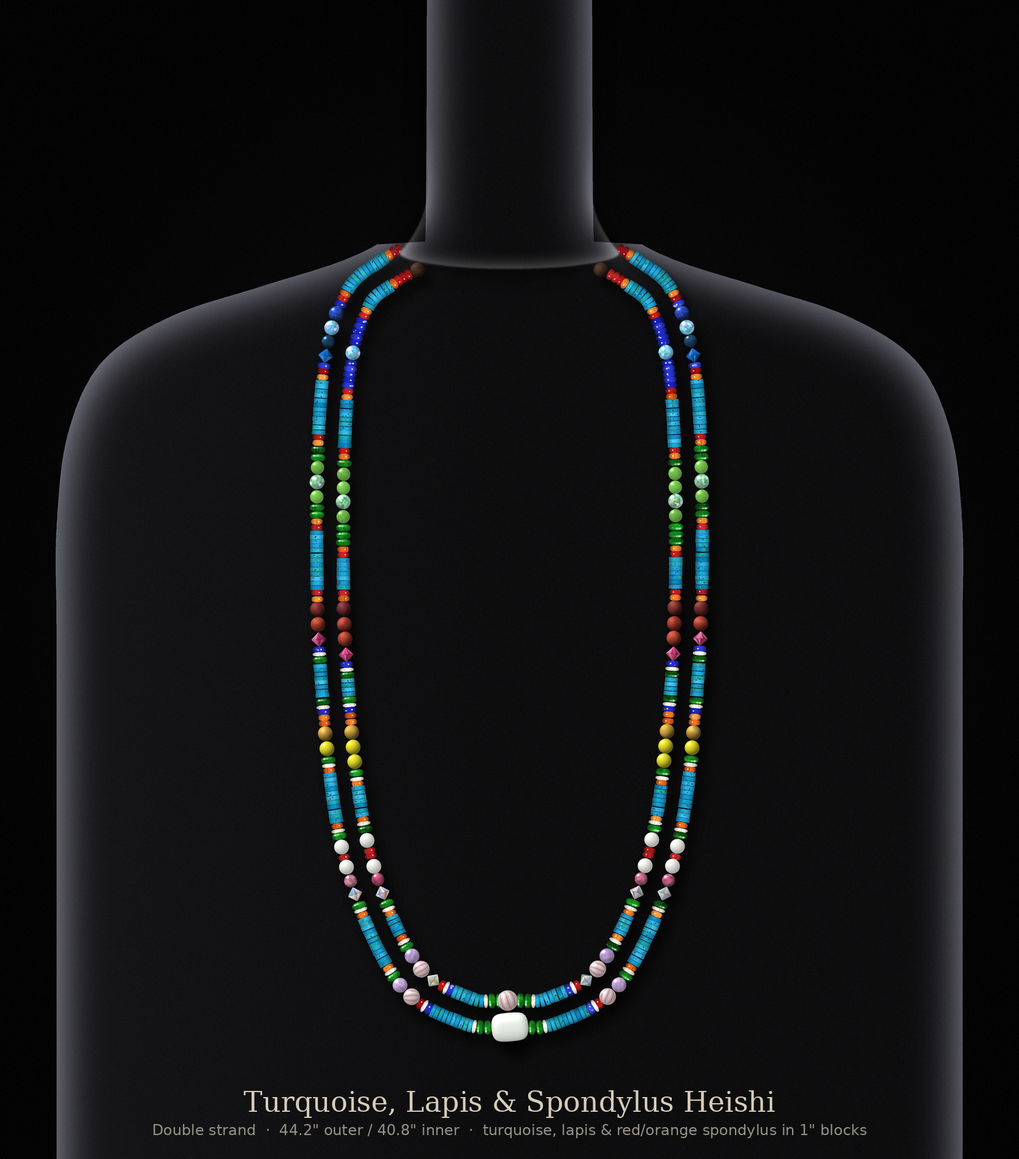
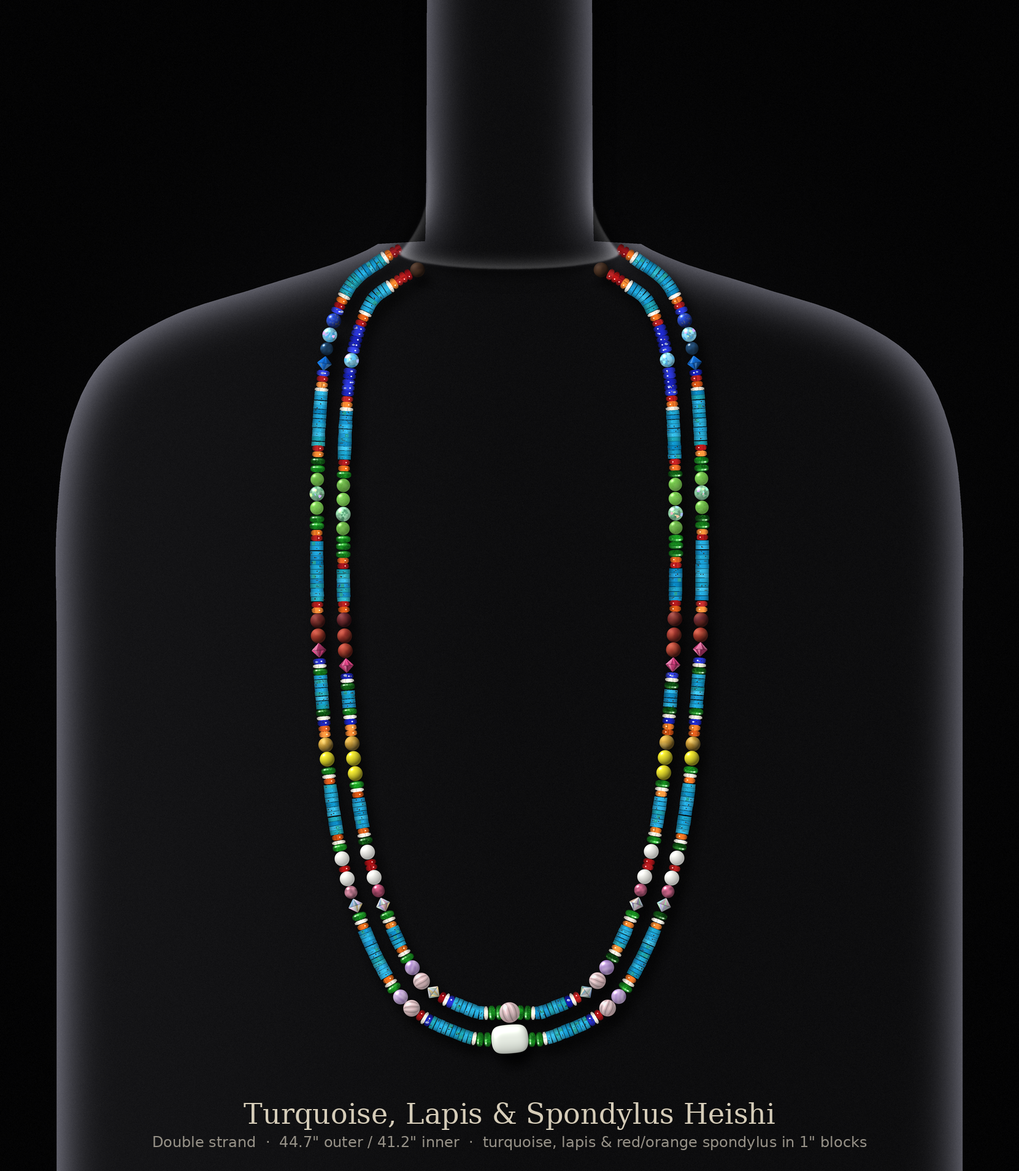
Version 5: white conch between orange and turquoise in the upper part; 44.7"
Claude-Session: https://claude.ai/code/session_014be1vF4Rdf8sv9Si75Gudv

diff --git a/necklace/render_necklace.py b/necklace/render_necklace.py
@@ -21,7 +21,8 @@ V5_EXT4 = 7.0 if V5 else 0.0             # v5: a pink tourmaline moves from the 
 V5_EXT5 = 5 * 2.0 if V5 else 0.0         # v5: white conch at the 5 lower orange/green borders per strand side (+10 mm per side)
 V5_EXT6 = -3.0 - 1.0 if V5 else 0.0      # (and -1 mm: lapis replaces the 4 mm diopside by the centre-side conch)            # v5: red above the white-section AB bicones removed (-3 mm per side)
 V5_EXT7 = 2.0 if V5 else 0.0             # v5: white conch beside the centre diopside (+2 mm per side)
-C_OUT, GAP, BEAD_D = 42 * INCH + 2 * (V5_EXT + V5_EXT2 + V5_EXT3 + V5_EXT4 + V5_EXT5 + V5_EXT6 + V5_EXT7), (11.2 if EXTRAS else (14.0 if V2 else 10.0)), 7.0   # v2: room for 18 mm naga conch
+V5_EXT8 = 3 * 2.0 if V5 else 0.0         # v5: white conch outside the oranges that touch turquoise, top red + blue bands (+6 mm per side)
+C_OUT, GAP, BEAD_D = 42 * INCH + 2 * (V5_EXT + V5_EXT2 + V5_EXT3 + V5_EXT4 + V5_EXT5 + V5_EXT6 + V5_EXT7 + V5_EXT8), (11.2 if EXTRAS else (14.0 if V2 else 10.0)), 7.0   # v2: room for 18 mm naga conch
 C_IN = C_OUT - 2 * math.pi * GAP    # inner strand: 8 mm smaller radius -> ~38"
 NSEG, BPS = 42, 16                  # 1 inch blocks, ~16 heishi (1.6 mm) per block
 
@@ -1099,6 +1100,10 @@ if V4:
             seq = list(seq); assert seq[-4:] == ["yellow", "lapisH", "red", "diop"], seq
             seq[-3:] = ["diop", "orange"]; return seq   # lapis under the green removed; orange (was red) touches the green
         BANDS[3] = tuple(_diop_up(b) for b in BANDS[3])
+        # upper part: white conch where an orange meets the turquoise (top red band bottom, blue band top and bottom)
+        assert all(b[-1] == "orange" for b in BANDS[2]) and all(b[0] == b[-1] == "orange" for b in BANDS[4])
+        BANDS[2] = tuple(list(b) + ["conch"] for b in BANDS[2])
+        BANDS[4] = tuple(["conch"] + list(b) + ["conch"] for b in BANDS[4])
         BANDS[3] = tuple(list(b[:-1]) + ["conch", "orange"] for b in BANDS[3])   # white conch between the green and orange under the yellow
         # below the yellow (rose band top and bottom, bottom band top): green against the round beads,
         # lapis -> orange spiny oyster against the turquoise
@@ -1214,13 +1219,13 @@ if V4:
             gaps = [f / 2] + [f] * len(STN)
             if V5:
                 # align band centres by height: use common fractions computed from the widest of each band pair
-                Hin = (s_in[-1] + HIDDEN_IN) / 2 - SZ[CENTRE[1]] / 2 - V5_EXT - V5_EXT2 - V5_EXT3 - V5_EXT4 - V5_EXT5 - V5_EXT6 - V5_EXT7   # layout at the old length
+                Hin = (s_in[-1] + HIDDEN_IN) / 2 - SZ[CENTRE[1]] / 2 - V5_EXT - V5_EXT2 - V5_EXT3 - V5_EXT4 - V5_EXT5 - V5_EXT6 - V5_EXT7 - V5_EXT8   # layout at the old length
                 Wmax = [max(sum(SZ[k] for k in b[0]), sum(SZ[k] for k in b[1])) for b in BANDS]
                 gapc = (Hin - sum(Wmax)) / (len(BANDS) + 0.5)
                 cen, acc = [], gapc / 2
                 for w in Wmax:
                     cen.append((acc + w / 2) / Hin); acc += w + gapc
-                Hs = H2 - cz - V5_EXT - V5_EXT2 - V5_EXT3 - V5_EXT4 - V5_EXT5 - V5_EXT6 - V5_EXT7                # layout at the old length; the extension goes in below the blue band
+                Hs = H2 - cz - V5_EXT - V5_EXT2 - V5_EXT3 - V5_EXT4 - V5_EXT5 - V5_EXT6 - V5_EXT7 - V5_EXT8                # layout at the old length; the extension goes in below the blue band
                 # turquoise gaps come from the unframed layout; the extra frame width is taken from the top section
                 Wmax0 = [max(sum(SZ[k] for k in b[0]), sum(SZ[k] for k in b[1])) for b in BANDS_PREV]
                 gapc0 = (Hin - sum(Wmax0)) / (len(BANDS_PREV) + 0.5)
@@ -1242,6 +1247,7 @@ if V4:
                     widths[6] -= SZ["redglass"]     # inner yellow band's extra red glass (the outer's replaces its old one)
                 widths[8] -= SZ["diop"]             # diopside above the white opal: band grows upward, room from the neck
                 widths[3] -= SZ["orange"]           # orange atop the blue band: room from the neck lapis
+                widths[2] -= SZ["conch"]; widths[3] -= 2 * SZ["conch"]   # upper white conch: necklace lengthened
                 widths[3] -= SZ["orange"]           # orange under the blue band: necklace lengthened instead
                 widths[5] -= V5_EXT3                # red above the mookaite band's bicone: necklace lengthened
                 widths[8] += SZ["rbic"] if st == 0 else -SZ["rbic"]   # bottom rose bicone moved outer -> inner: layout as before
@@ -1375,6 +1381,7 @@ if V4:
                     _need += 2 * SZ["red"]
                 widths[3] += SZ["orange"]
                 _need += SZ["orange"]
+                widths[2] += SZ["conch"]; widths[3] += 2 * SZ["conch"]   # (bands below move down; turquoise unchanged)
                 widths[3] += SZ["orange"]
                 widths[8] += V5_EXT2
                 if st == 0:
